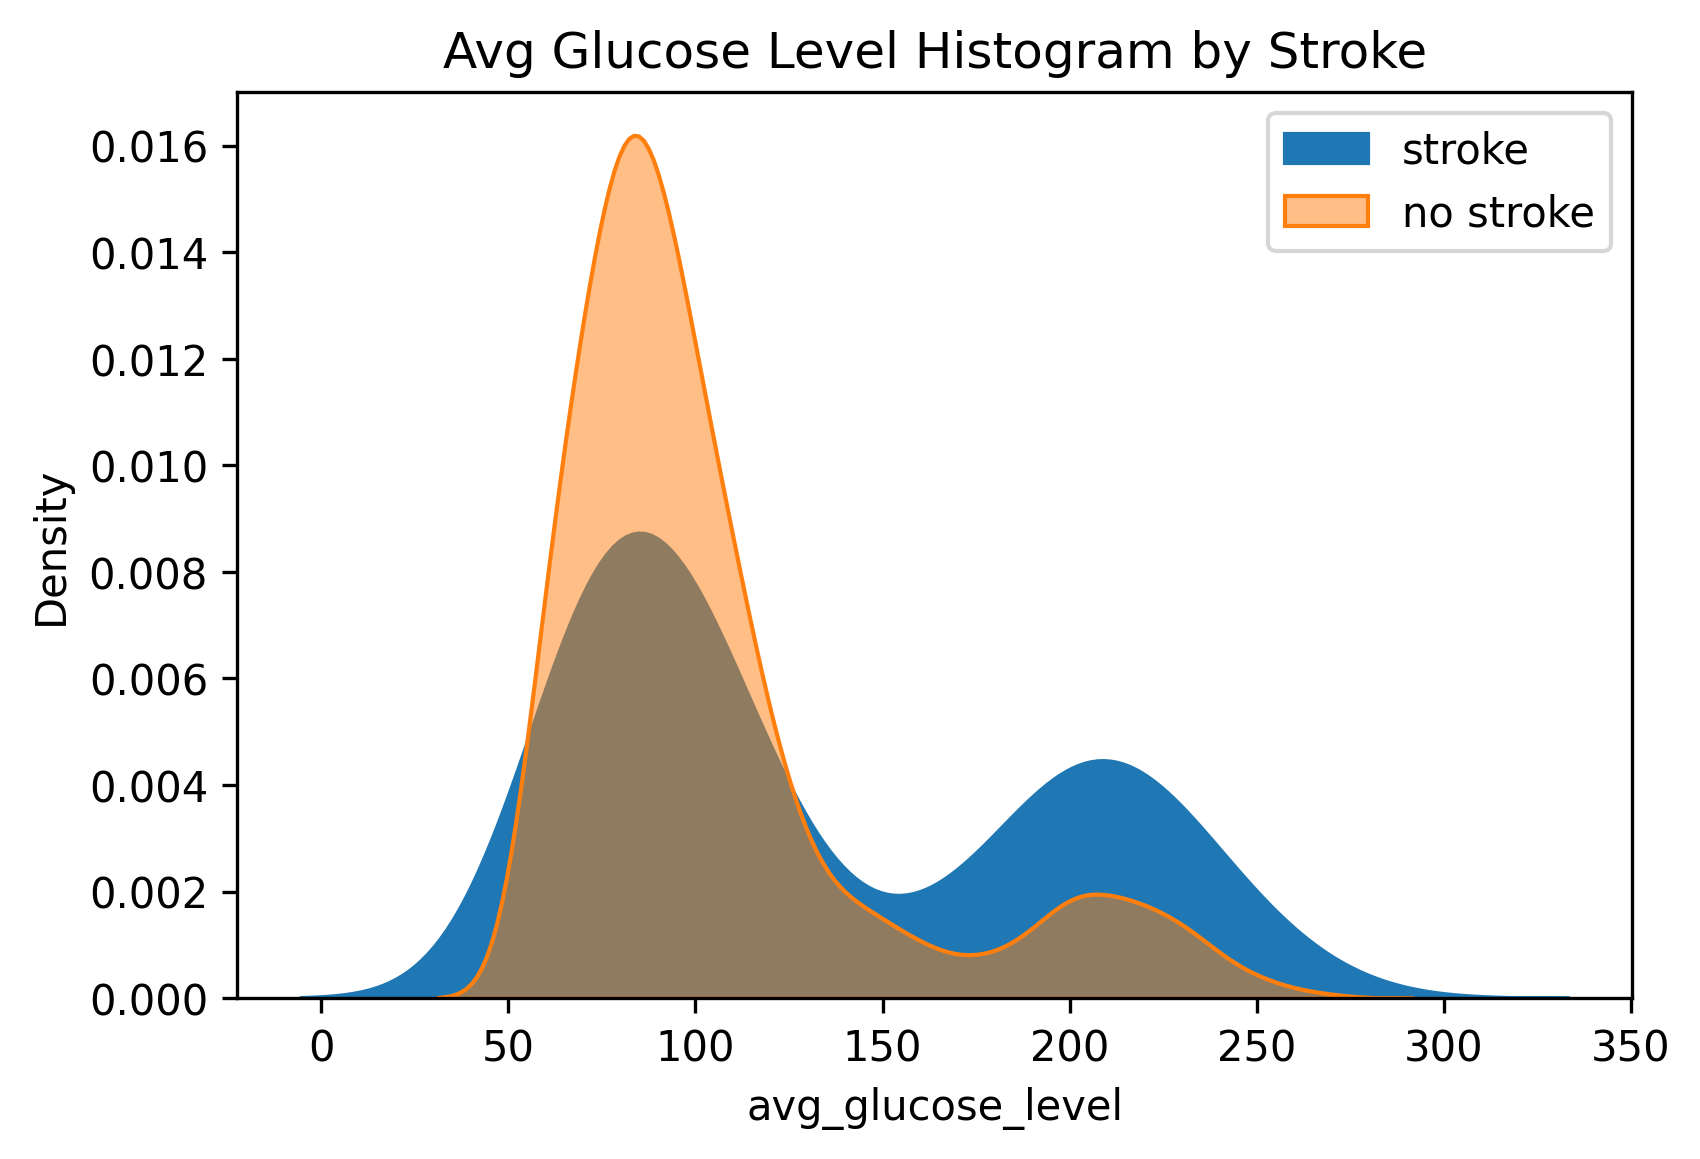
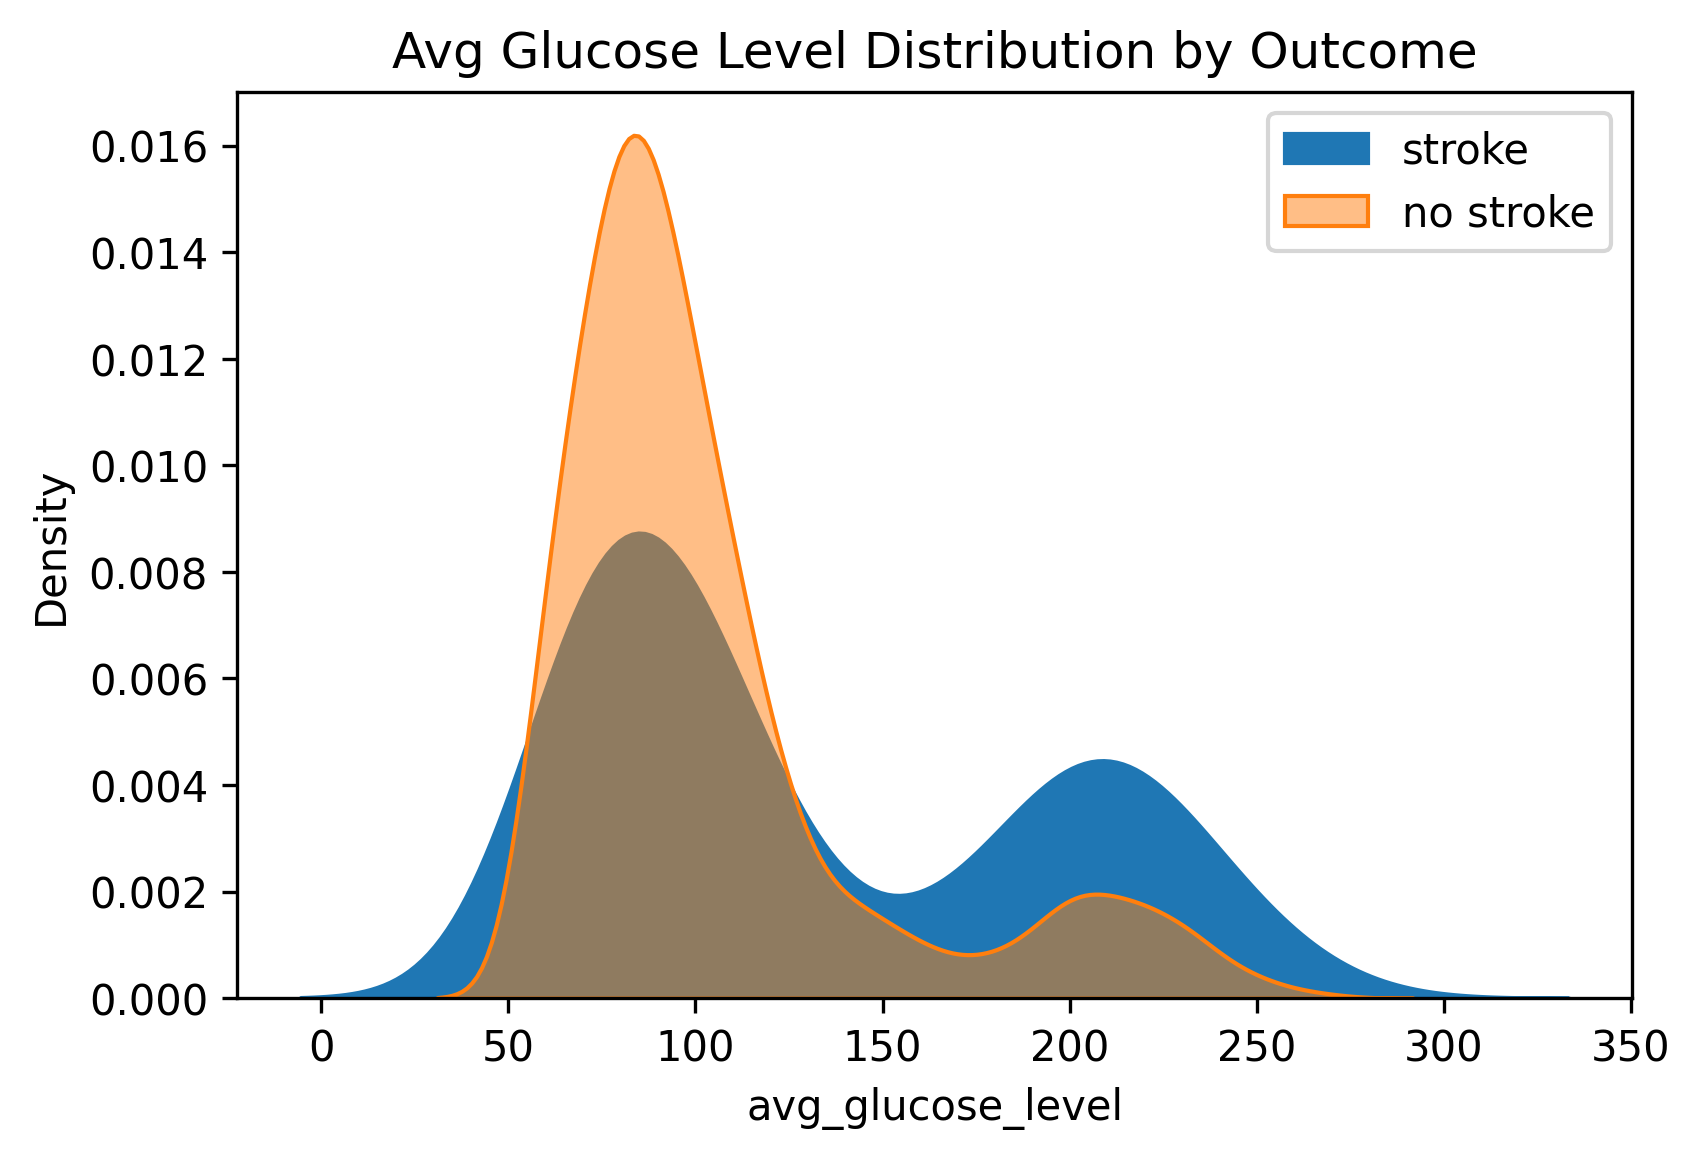
update images

Changed region(s): [[0.2182, 0.0311, 0.8729, 0.0621]]

diff --git a/stroke_EDA.py b/stroke_EDA.py
@@ -214,7 +214,7 @@ for col in numerical_cols:
 for col in numerical_cols:
     sns.kdeplot(data=dataset[dataset.stroke==1], x=col, shade=True, alpha=1, label='stroke')
     sns.kdeplot(data=dataset[dataset.stroke==0], x=col, shade=True, alpha=0.5, label='no stroke')
-    plt.title(format_col(col) + ' Histogram by Stroke')
+    plt.title(format_col(col) + ' Distribution by Outcome')
     save_filename = 'hist_by_stroke-' + col
     plt.legend()
     save_image(output_dir, save_filename)    
